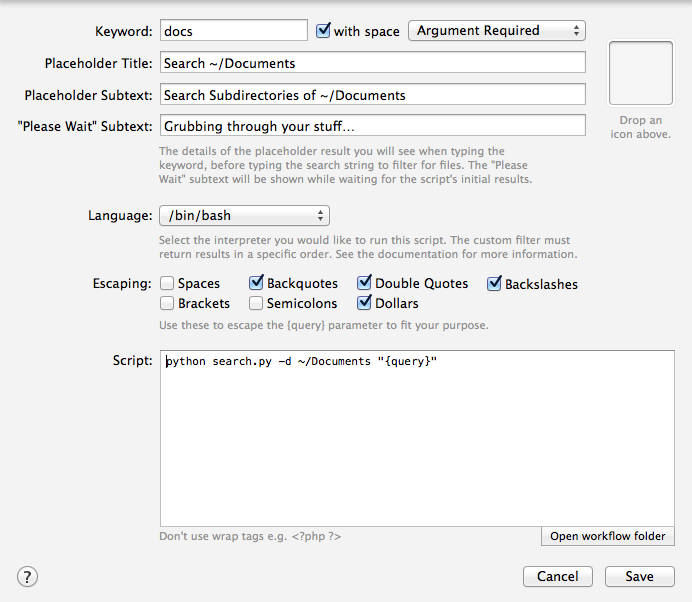
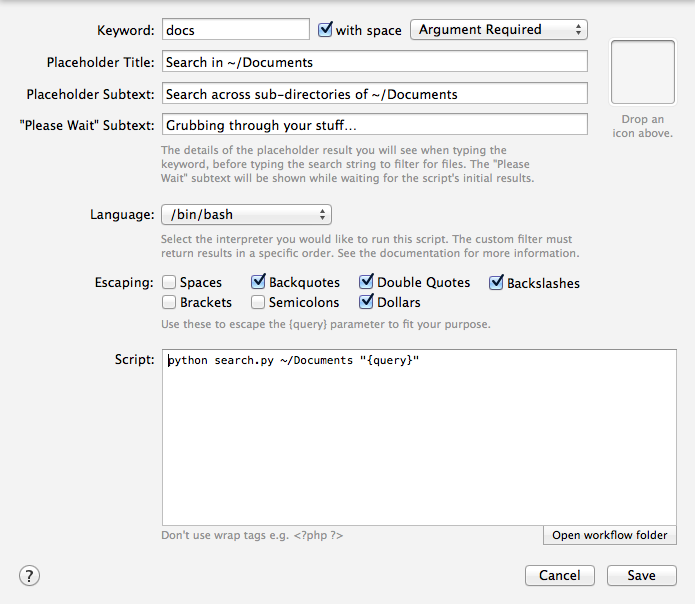
Change default behaviour to only search for directories

diff --git a/src/search.py b/src/search.py
@@ -80,8 +80,8 @@ def filter_paths(queries, paths, root):
 
 def main(wf):
     parser = argparse.ArgumentParser()
-    parser.add_argument('-d', '--dirs', action='store_true', dest='dirs_only',
-                        help='only search for directories')
+    parser.add_argument('-f', '--files', action='store_false', dest='dirs_only',
+                        help='also search for files', default=True)
     parser.add_argument('root', metavar='DIR', default=None,
                         help='directory to search in')
     parser.add_argument('query', default=None, help='what to search for')

diff --git a/README.md b/README.md
@@ -30,9 +30,13 @@ Entering `code alfred workflow` produces a list of all subdirectories somewhere 
 
 The Workflow is pre-configured to search **~/Documents** using the keyword `docs`. To search other directories, you'll have to add your own **Script Filter(s)**, adjusting the **Keyword** and root directory in the **Script** field.
 
-The `-d` option tells `search.py` to only return directories.
-
 ![](screenshot_conf.png "")
+
+You can pass the `-f` or `--files` to `search.py` to also search files.
+
+![](screenshot_conf_files.png "")
+
+**Note:** Searching files as well as directories makes the Workflow **a lot** slower.
 
 ## Screenshots ##
 
